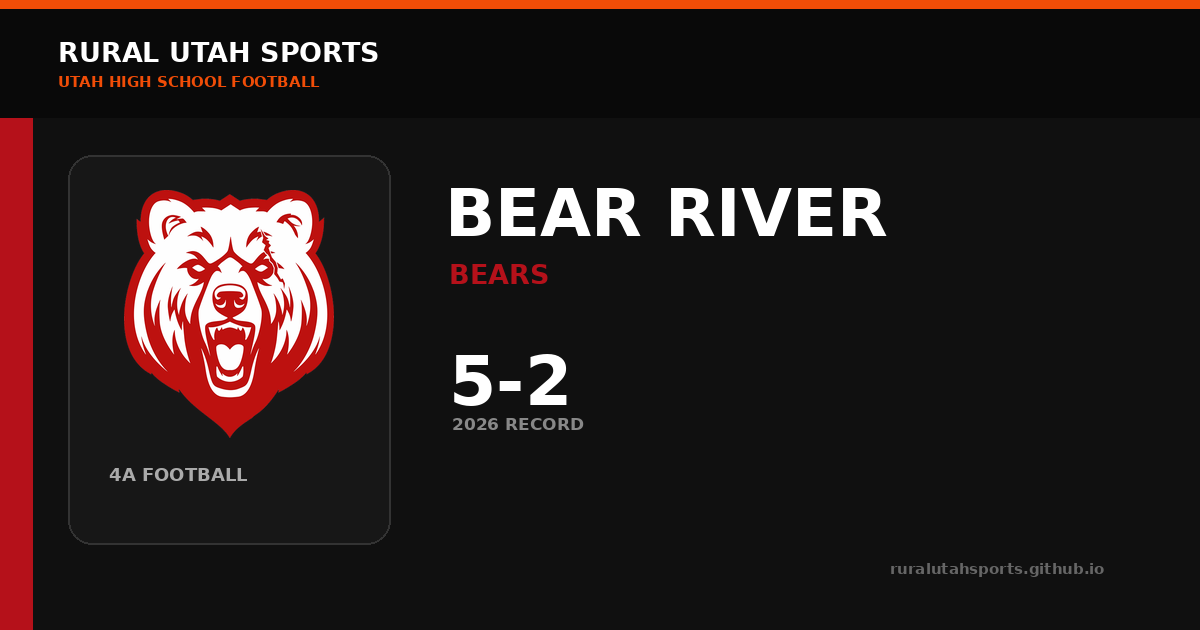
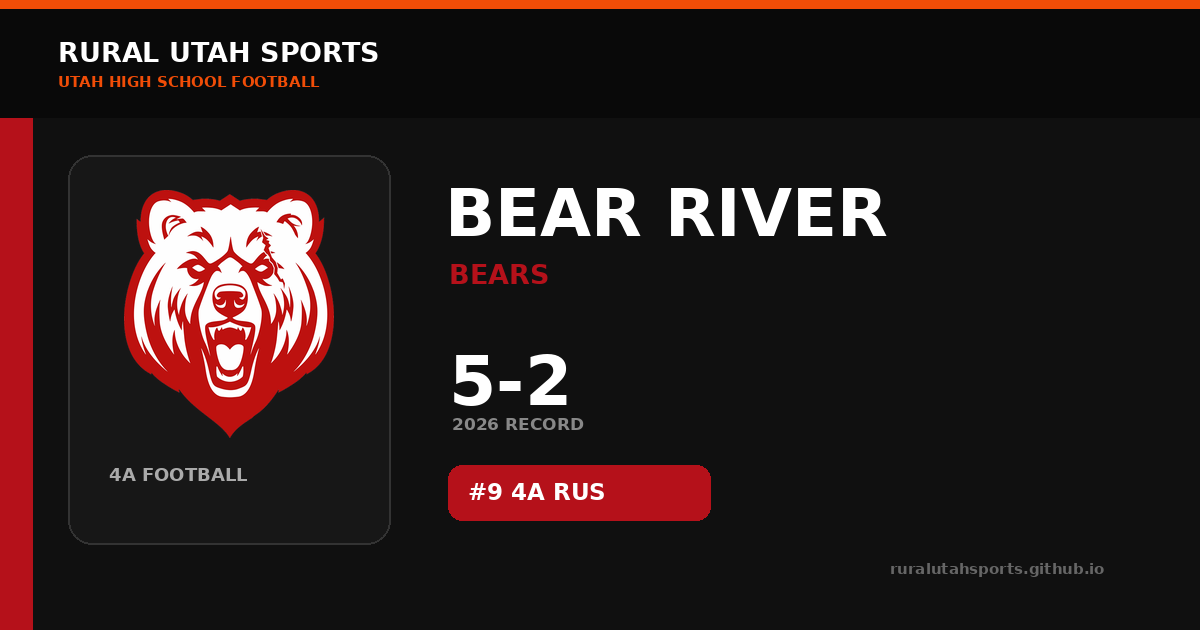
Auto-build social share previews

Changed region(s): [[0.37, 0.7238, 0.6167, 0.8444]]

diff --git a/share/team/mountain-crest/index.html b/share/team/mountain-crest/index.html
@@ -1,5 +1,5 @@
 <!doctype html><html lang="en"><head><meta charset="utf-8"><meta name="viewport" content="width=device-width,initial-scale=1">
-<title>Mountain Crest Mustangs Football | Rural Utah Sports</title><meta name="description" content="2026 4A football • 4-3 • #9 4A RUS. Team history, games, rankings, ELO and stats."><meta name="robots" content="noindex,follow"><link rel="canonical" href="https://ruralutahsports.github.io/rural-utah-sports/team.html?team=MOUNTAIN%20CREST">
-<meta property="og:type" content="website"><meta property="og:site_name" content="Rural Utah Sports"><meta property="og:title" content="Mountain Crest Mustangs Football | Rural Utah Sports"><meta property="og:description" content="2026 4A football • 4-3 • #9 4A RUS. Team history, games, rankings, ELO and stats."><meta property="og:url" content="https://ruralutahsports.github.io/rural-utah-sports/share/team/mountain-crest/"><meta property="og:image" content="https://ruralutahsports.github.io/rural-utah-sports/share-images/teams/mountain-crest.png"><meta property="og:image:width" content="1200"><meta property="og:image:height" content="630">
-<meta name="twitter:card" content="summary_large_image"><meta name="twitter:title" content="Mountain Crest Mustangs Football | Rural Utah Sports"><meta name="twitter:description" content="2026 4A football • 4-3 • #9 4A RUS. Team history, games, rankings, ELO and stats."><meta name="twitter:image" content="https://ruralutahsports.github.io/rural-utah-sports/share-images/teams/mountain-crest.png"><meta http-equiv="refresh" content="0;url=https://ruralutahsports.github.io/rural-utah-sports/team.html?team=MOUNTAIN%20CREST">
+<title>Mountain Crest Mustangs Football | Rural Utah Sports</title><meta name="description" content="2026 4A football • 4-3 • #8 4A RUS. Team history, games, rankings, ELO and stats."><meta name="robots" content="noindex,follow"><link rel="canonical" href="https://ruralutahsports.github.io/rural-utah-sports/team.html?team=MOUNTAIN%20CREST">
+<meta property="og:type" content="website"><meta property="og:site_name" content="Rural Utah Sports"><meta property="og:title" content="Mountain Crest Mustangs Football | Rural Utah Sports"><meta property="og:description" content="2026 4A football • 4-3 • #8 4A RUS. Team history, games, rankings, ELO and stats."><meta property="og:url" content="https://ruralutahsports.github.io/rural-utah-sports/share/team/mountain-crest/"><meta property="og:image" content="https://ruralutahsports.github.io/rural-utah-sports/share-images/teams/mountain-crest.png"><meta property="og:image:width" content="1200"><meta property="og:image:height" content="630">
+<meta name="twitter:card" content="summary_large_image"><meta name="twitter:title" content="Mountain Crest Mustangs Football | Rural Utah Sports"><meta name="twitter:description" content="2026 4A football • 4-3 • #8 4A RUS. Team history, games, rankings, ELO and stats."><meta name="twitter:image" content="https://ruralutahsports.github.io/rural-utah-sports/share-images/teams/mountain-crest.png"><meta http-equiv="refresh" content="0;url=https://ruralutahsports.github.io/rural-utah-sports/team.html?team=MOUNTAIN%20CREST">
 <style>body{margin:0;background:#111;color:#fff;font:16px Arial,sans-serif;display:grid;place-items:center;min-height:100vh}a{color:#F14D07;font-weight:800}</style></head><body><p>Opening <a href="https://ruralutahsports.github.io/rural-utah-sports/team.html?team=MOUNTAIN%20CREST">Mountain Crest Mustangs Football | Rural Utah Sports</a>…</p><script>location.replace("https://ruralutahsports.github.io/rural-utah-sports/team.html?team=MOUNTAIN%20CREST");</script></body></html>

diff --git a/share/team/green-canyon/index.html b/share/team/green-canyon/index.html
@@ -1,5 +1,5 @@
 <!doctype html><html lang="en"><head><meta charset="utf-8"><meta name="viewport" content="width=device-width,initial-scale=1">
-<title>Green Canyon Wolves Football | Rural Utah Sports</title><meta name="description" content="2026 4A football • 2-5 • #10 4A RUS. Team history, games, rankings, ELO and stats."><meta name="robots" content="noindex,follow"><link rel="canonical" href="https://ruralutahsports.github.io/rural-utah-sports/team.html?team=GREEN%20CANYON">
-<meta property="og:type" content="website"><meta property="og:site_name" content="Rural Utah Sports"><meta property="og:title" content="Green Canyon Wolves Football | Rural Utah Sports"><meta property="og:description" content="2026 4A football • 2-5 • #10 4A RUS. Team history, games, rankings, ELO and stats."><meta property="og:url" content="https://ruralutahsports.github.io/rural-utah-sports/share/team/green-canyon/"><meta property="og:image" content="https://ruralutahsports.github.io/rural-utah-sports/share-images/teams/green-canyon.png"><meta property="og:image:width" content="1200"><meta property="og:image:height" content="630">
-<meta name="twitter:card" content="summary_large_image"><meta name="twitter:title" content="Green Canyon Wolves Football | Rural Utah Sports"><meta name="twitter:description" content="2026 4A football • 2-5 • #10 4A RUS. Team history, games, rankings, ELO and stats."><meta name="twitter:image" content="https://ruralutahsports.github.io/rural-utah-sports/share-images/teams/green-canyon.png"><meta http-equiv="refresh" content="0;url=https://ruralutahsports.github.io/rural-utah-sports/team.html?team=GREEN%20CANYON">
+<title>Green Canyon Wolves Football | Rural Utah Sports</title><meta name="description" content="2026 4A football • 2-5. Team history, games, rankings, ELO and stats."><meta name="robots" content="noindex,follow"><link rel="canonical" href="https://ruralutahsports.github.io/rural-utah-sports/team.html?team=GREEN%20CANYON">
+<meta property="og:type" content="website"><meta property="og:site_name" content="Rural Utah Sports"><meta property="og:title" content="Green Canyon Wolves Football | Rural Utah Sports"><meta property="og:description" content="2026 4A football • 2-5. Team history, games, rankings, ELO and stats."><meta property="og:url" content="https://ruralutahsports.github.io/rural-utah-sports/share/team/green-canyon/"><meta property="og:image" content="https://ruralutahsports.github.io/rural-utah-sports/share-images/teams/green-canyon.png"><meta property="og:image:width" content="1200"><meta property="og:image:height" content="630">
+<meta name="twitter:card" content="summary_large_image"><meta name="twitter:title" content="Green Canyon Wolves Football | Rural Utah Sports"><meta name="twitter:description" content="2026 4A football • 2-5. Team history, games, rankings, ELO and stats."><meta name="twitter:image" content="https://ruralutahsports.github.io/rural-utah-sports/share-images/teams/green-canyon.png"><meta http-equiv="refresh" content="0;url=https://ruralutahsports.github.io/rural-utah-sports/team.html?team=GREEN%20CANYON">
 <style>body{margin:0;background:#111;color:#fff;font:16px Arial,sans-serif;display:grid;place-items:center;min-height:100vh}a{color:#F14D07;font-weight:800}</style></head><body><p>Opening <a href="https://ruralutahsports.github.io/rural-utah-sports/team.html?team=GREEN%20CANYON">Green Canyon Wolves Football | Rural Utah Sports</a>…</p><script>location.replace("https://ruralutahsports.github.io/rural-utah-sports/team.html?team=GREEN%20CANYON");</script></body></html>

diff --git a/share/team/salem-hills/index.html b/share/team/salem-hills/index.html
@@ -1,5 +1,5 @@
 <!doctype html><html lang="en"><head><meta charset="utf-8"><meta name="viewport" content="width=device-width,initial-scale=1">
-<title>Salem Hills Skyhawks Football | Rural Utah Sports</title><meta name="description" content="2026 4A football • 5-2. Team history, games, rankings, ELO and stats."><meta name="robots" content="noindex,follow"><link rel="canonical" href="https://ruralutahsports.github.io/rural-utah-sports/team.html?team=SALEM%20HILLS">
-<meta property="og:type" content="website"><meta property="og:site_name" content="Rural Utah Sports"><meta property="og:title" content="Salem Hills Skyhawks Football | Rural Utah Sports"><meta property="og:description" content="2026 4A football • 5-2. Team history, games, rankings, ELO and stats."><meta property="og:url" content="https://ruralutahsports.github.io/rural-utah-sports/share/team/salem-hills/"><meta property="og:image" content="https://ruralutahsports.github.io/rural-utah-sports/share-images/teams/salem-hills.png"><meta property="og:image:width" content="1200"><meta property="og:image:height" content="630">
-<meta name="twitter:card" content="summary_large_image"><meta name="twitter:title" content="Salem Hills Skyhawks Football | Rural Utah Sports"><meta name="twitter:description" content="2026 4A football • 5-2. Team history, games, rankings, ELO and stats."><meta name="twitter:image" content="https://ruralutahsports.github.io/rural-utah-sports/share-images/teams/salem-hills.png"><meta http-equiv="refresh" content="0;url=https://ruralutahsports.github.io/rural-utah-sports/team.html?team=SALEM%20HILLS">
+<title>Salem Hills Skyhawks Football | Rural Utah Sports</title><meta name="description" content="2026 4A football • 5-2 • #10 4A RUS. Team history, games, rankings, ELO and stats."><meta name="robots" content="noindex,follow"><link rel="canonical" href="https://ruralutahsports.github.io/rural-utah-sports/team.html?team=SALEM%20HILLS">
+<meta property="og:type" content="website"><meta property="og:site_name" content="Rural Utah Sports"><meta property="og:title" content="Salem Hills Skyhawks Football | Rural Utah Sports"><meta property="og:description" content="2026 4A football • 5-2 • #10 4A RUS. Team history, games, rankings, ELO and stats."><meta property="og:url" content="https://ruralutahsports.github.io/rural-utah-sports/share/team/salem-hills/"><meta property="og:image" content="https://ruralutahsports.github.io/rural-utah-sports/share-images/teams/salem-hills.png"><meta property="og:image:width" content="1200"><meta property="og:image:height" content="630">
+<meta name="twitter:card" content="summary_large_image"><meta name="twitter:title" content="Salem Hills Skyhawks Football | Rural Utah Sports"><meta name="twitter:description" content="2026 4A football • 5-2 • #10 4A RUS. Team history, games, rankings, ELO and stats."><meta name="twitter:image" content="https://ruralutahsports.github.io/rural-utah-sports/share-images/teams/salem-hills.png"><meta http-equiv="refresh" content="0;url=https://ruralutahsports.github.io/rural-utah-sports/team.html?team=SALEM%20HILLS">
 <style>body{margin:0;background:#111;color:#fff;font:16px Arial,sans-serif;display:grid;place-items:center;min-height:100vh}a{color:#F14D07;font-weight:800}</style></head><body><p>Opening <a href="https://ruralutahsports.github.io/rural-utah-sports/team.html?team=SALEM%20HILLS">Salem Hills Skyhawks Football | Rural Utah Sports</a>…</p><script>location.replace("https://ruralutahsports.github.io/rural-utah-sports/team.html?team=SALEM%20HILLS");</script></body></html>

diff --git a/share/team/bear-river/index.html b/share/team/bear-river/index.html
@@ -1,5 +1,5 @@
 <!doctype html><html lang="en"><head><meta charset="utf-8"><meta name="viewport" content="width=device-width,initial-scale=1">
-<title>Bear River Bears Football | Rural Utah Sports</title><meta name="description" content="2026 4A football • 5-2. Team history, games, rankings, ELO and stats."><meta name="robots" content="noindex,follow"><link rel="canonical" href="https://ruralutahsports.github.io/rural-utah-sports/team.html?team=BEAR%20RIVER">
-<meta property="og:type" content="website"><meta property="og:site_name" content="Rural Utah Sports"><meta property="og:title" content="Bear River Bears Football | Rural Utah Sports"><meta property="og:description" content="2026 4A football • 5-2. Team history, games, rankings, ELO and stats."><meta property="og:url" content="https://ruralutahsports.github.io/rural-utah-sports/share/team/bear-river/"><meta property="og:image" content="https://ruralutahsports.github.io/rural-utah-sports/share-images/teams/bear-river.png"><meta property="og:image:width" content="1200"><meta property="og:image:height" content="630">
-<meta name="twitter:card" content="summary_large_image"><meta name="twitter:title" content="Bear River Bears Football | Rural Utah Sports"><meta name="twitter:description" content="2026 4A football • 5-2. Team history, games, rankings, ELO and stats."><meta name="twitter:image" content="https://ruralutahsports.github.io/rural-utah-sports/share-images/teams/bear-river.png"><meta http-equiv="refresh" content="0;url=https://ruralutahsports.github.io/rural-utah-sports/team.html?team=BEAR%20RIVER">
+<title>Bear River Bears Football | Rural Utah Sports</title><meta name="description" content="2026 4A football • 5-2 • #9 4A RUS. Team history, games, rankings, ELO and stats."><meta name="robots" content="noindex,follow"><link rel="canonical" href="https://ruralutahsports.github.io/rural-utah-sports/team.html?team=BEAR%20RIVER">
+<meta property="og:type" content="website"><meta property="og:site_name" content="Rural Utah Sports"><meta property="og:title" content="Bear River Bears Football | Rural Utah Sports"><meta property="og:description" content="2026 4A football • 5-2 • #9 4A RUS. Team history, games, rankings, ELO and stats."><meta property="og:url" content="https://ruralutahsports.github.io/rural-utah-sports/share/team/bear-river/"><meta property="og:image" content="https://ruralutahsports.github.io/rural-utah-sports/share-images/teams/bear-river.png"><meta property="og:image:width" content="1200"><meta property="og:image:height" content="630">
+<meta name="twitter:card" content="summary_large_image"><meta name="twitter:title" content="Bear River Bears Football | Rural Utah Sports"><meta name="twitter:description" content="2026 4A football • 5-2 • #9 4A RUS. Team history, games, rankings, ELO and stats."><meta name="twitter:image" content="https://ruralutahsports.github.io/rural-utah-sports/share-images/teams/bear-river.png"><meta http-equiv="refresh" content="0;url=https://ruralutahsports.github.io/rural-utah-sports/team.html?team=BEAR%20RIVER">
 <style>body{margin:0;background:#111;color:#fff;font:16px Arial,sans-serif;display:grid;place-items:center;min-height:100vh}a{color:#F14D07;font-weight:800}</style></head><body><p>Opening <a href="https://ruralutahsports.github.io/rural-utah-sports/team.html?team=BEAR%20RIVER">Bear River Bears Football | Rural Utah Sports</a>…</p><script>location.replace("https://ruralutahsports.github.io/rural-utah-sports/team.html?team=BEAR%20RIVER");</script></body></html>

diff --git a/share/team/sky-view/index.html b/share/team/sky-view/index.html
@@ -1,5 +1,5 @@
 <!doctype html><html lang="en"><head><meta charset="utf-8"><meta name="viewport" content="width=device-width,initial-scale=1">
-<title>Sky View Bobcats Football | Rural Utah Sports</title><meta name="description" content="2026 4A football • 3-4 • #8 4A RUS. Team history, games, rankings, ELO and stats."><meta name="robots" content="noindex,follow"><link rel="canonical" href="https://ruralutahsports.github.io/rural-utah-sports/team.html?team=SKY%20VIEW">
-<meta property="og:type" content="website"><meta property="og:site_name" content="Rural Utah Sports"><meta property="og:title" content="Sky View Bobcats Football | Rural Utah Sports"><meta property="og:description" content="2026 4A football • 3-4 • #8 4A RUS. Team history, games, rankings, ELO and stats."><meta property="og:url" content="https://ruralutahsports.github.io/rural-utah-sports/share/team/sky-view/"><meta property="og:image" content="https://ruralutahsports.github.io/rural-utah-sports/share-images/teams/sky-view.png"><meta property="og:image:width" content="1200"><meta property="og:image:height" content="630">
-<meta name="twitter:card" content="summary_large_image"><meta name="twitter:title" content="Sky View Bobcats Football | Rural Utah Sports"><meta name="twitter:description" content="2026 4A football • 3-4 • #8 4A RUS. Team history, games, rankings, ELO and stats."><meta name="twitter:image" content="https://ruralutahsports.github.io/rural-utah-sports/share-images/teams/sky-view.png"><meta http-equiv="refresh" content="0;url=https://ruralutahsports.github.io/rural-utah-sports/team.html?team=SKY%20VIEW">
+<title>Sky View Bobcats Football | Rural Utah Sports</title><meta name="description" content="2026 4A football • 3-4. Team history, games, rankings, ELO and stats."><meta name="robots" content="noindex,follow"><link rel="canonical" href="https://ruralutahsports.github.io/rural-utah-sports/team.html?team=SKY%20VIEW">
+<meta property="og:type" content="website"><meta property="og:site_name" content="Rural Utah Sports"><meta property="og:title" content="Sky View Bobcats Football | Rural Utah Sports"><meta property="og:description" content="2026 4A football • 3-4. Team history, games, rankings, ELO and stats."><meta property="og:url" content="https://ruralutahsports.github.io/rural-utah-sports/share/team/sky-view/"><meta property="og:image" content="https://ruralutahsports.github.io/rural-utah-sports/share-images/teams/sky-view.png"><meta property="og:image:width" content="1200"><meta property="og:image:height" content="630">
+<meta name="twitter:card" content="summary_large_image"><meta name="twitter:title" content="Sky View Bobcats Football | Rural Utah Sports"><meta name="twitter:description" content="2026 4A football • 3-4. Team history, games, rankings, ELO and stats."><meta name="twitter:image" content="https://ruralutahsports.github.io/rural-utah-sports/share-images/teams/sky-view.png"><meta http-equiv="refresh" content="0;url=https://ruralutahsports.github.io/rural-utah-sports/team.html?team=SKY%20VIEW">
 <style>body{margin:0;background:#111;color:#fff;font:16px Arial,sans-serif;display:grid;place-items:center;min-height:100vh}a{color:#F14D07;font-weight:800}</style></head><body><p>Opening <a href="https://ruralutahsports.github.io/rural-utah-sports/team.html?team=SKY%20VIEW">Sky View Bobcats Football | Rural Utah Sports</a>…</p><script>location.replace("https://ruralutahsports.github.io/rural-utah-sports/team.html?team=SKY%20VIEW");</script></body></html>
